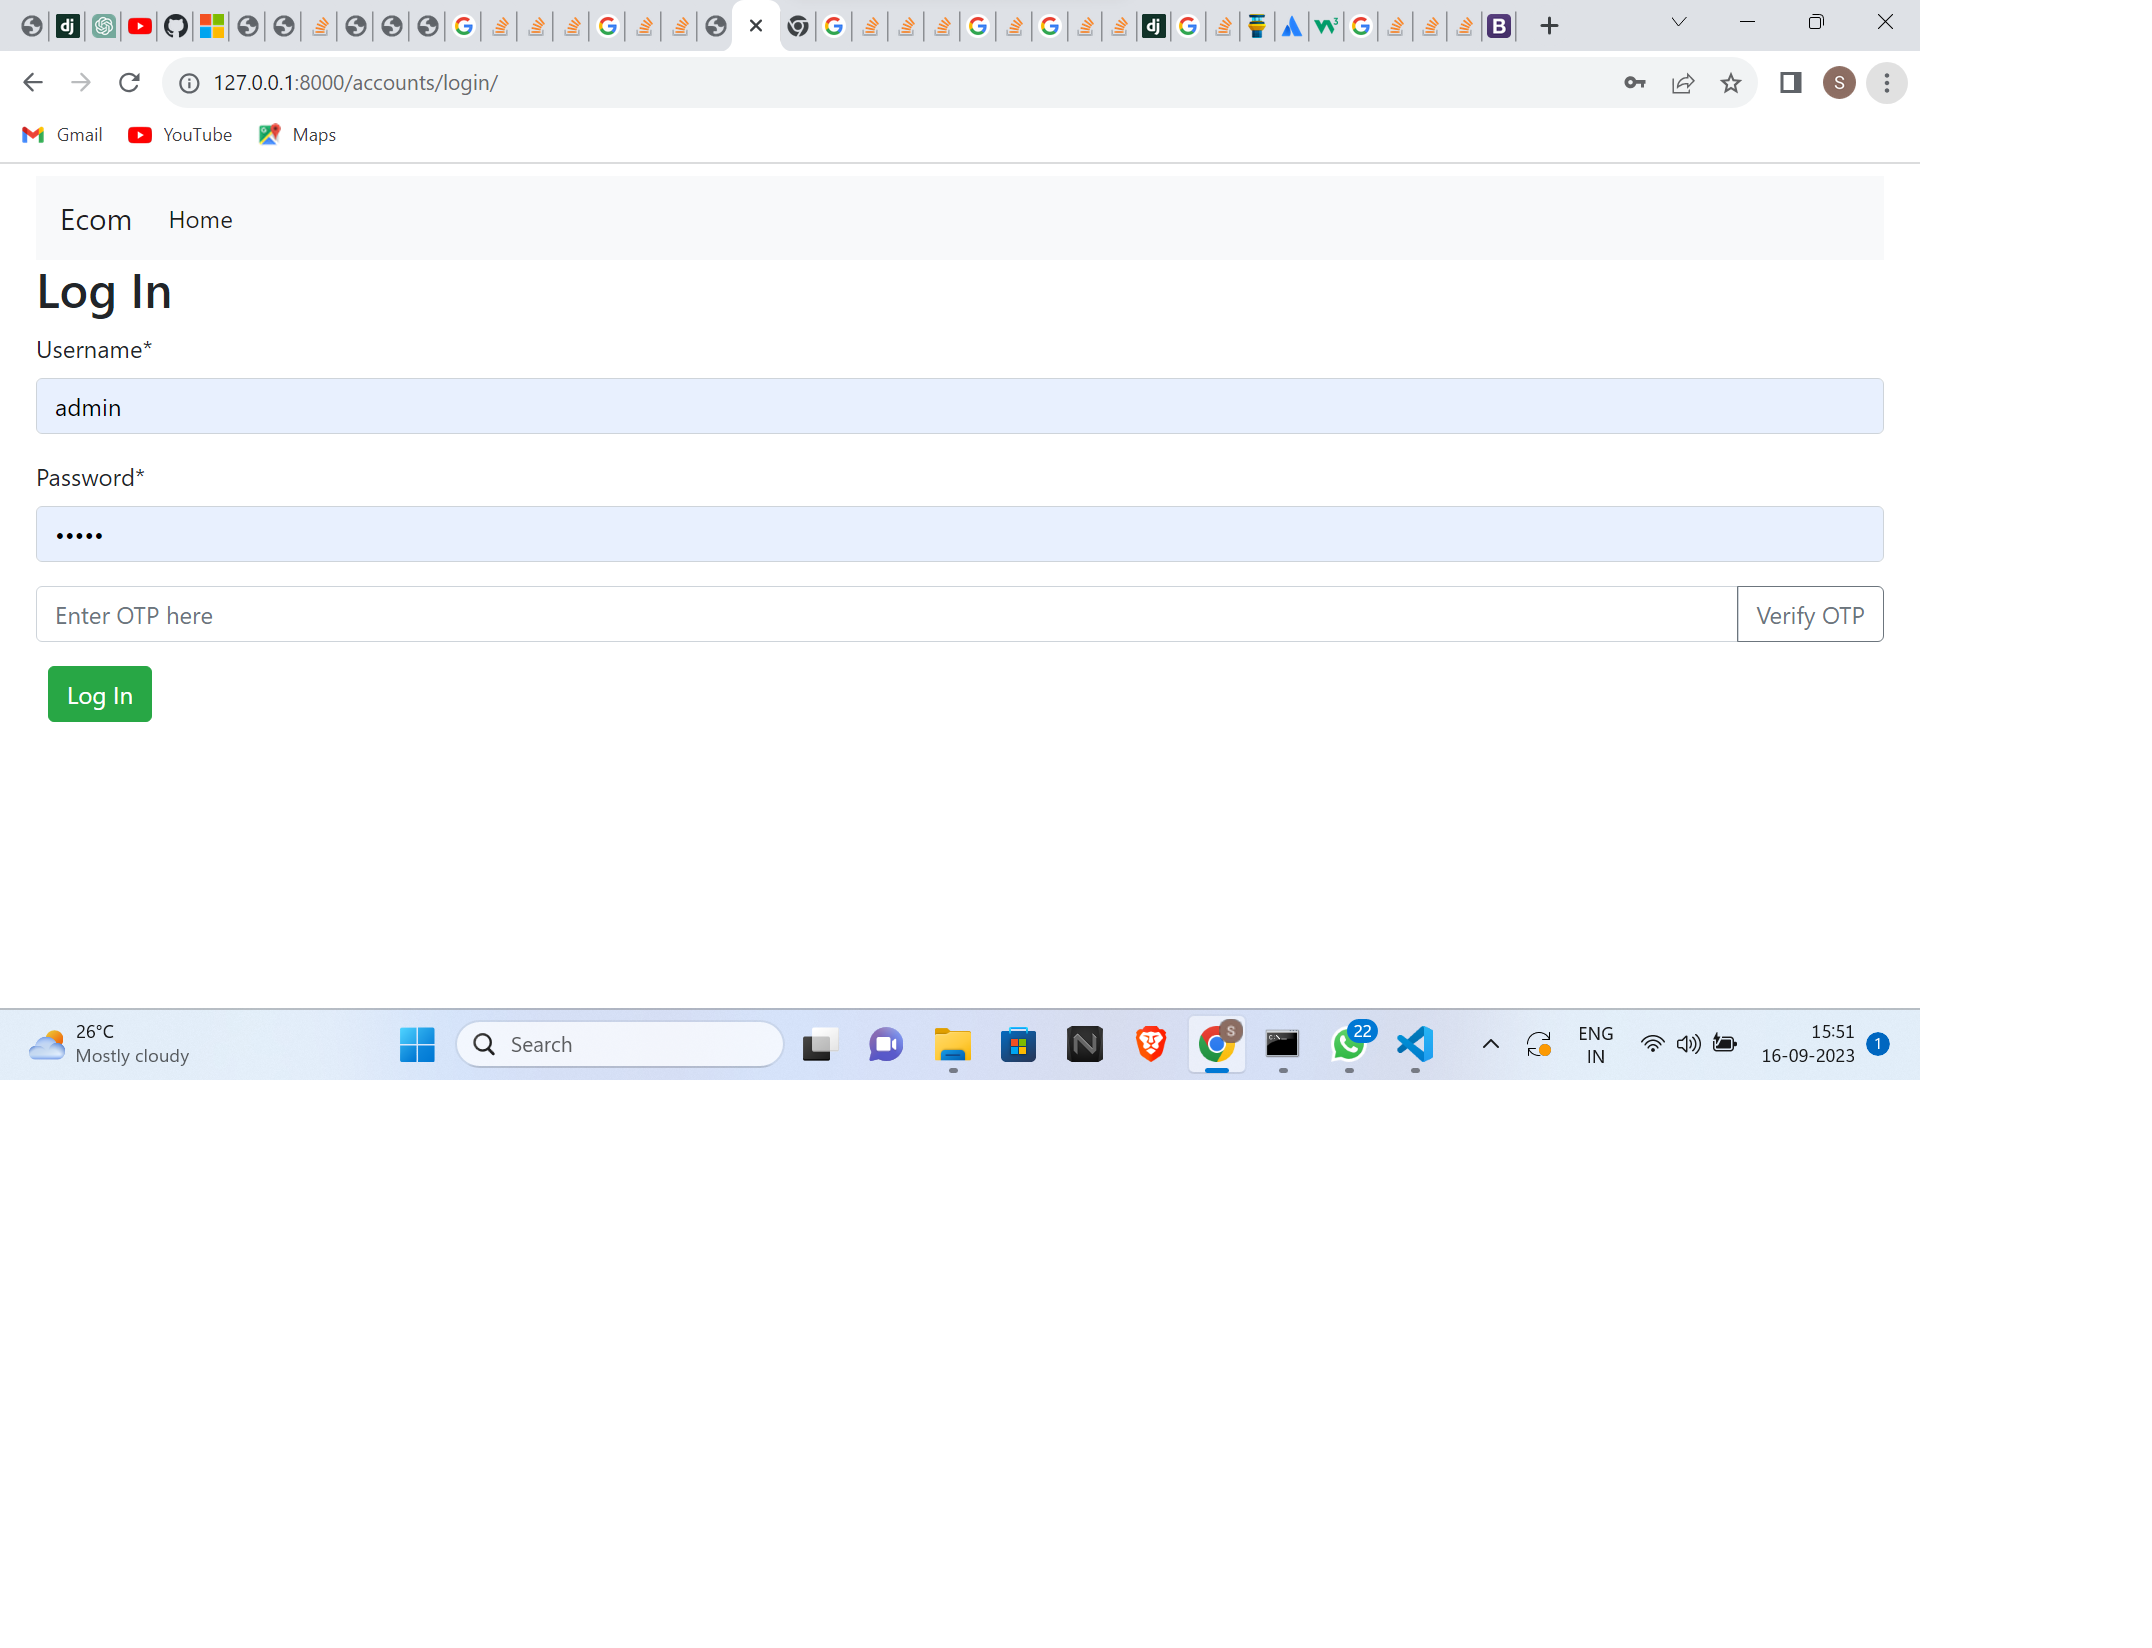
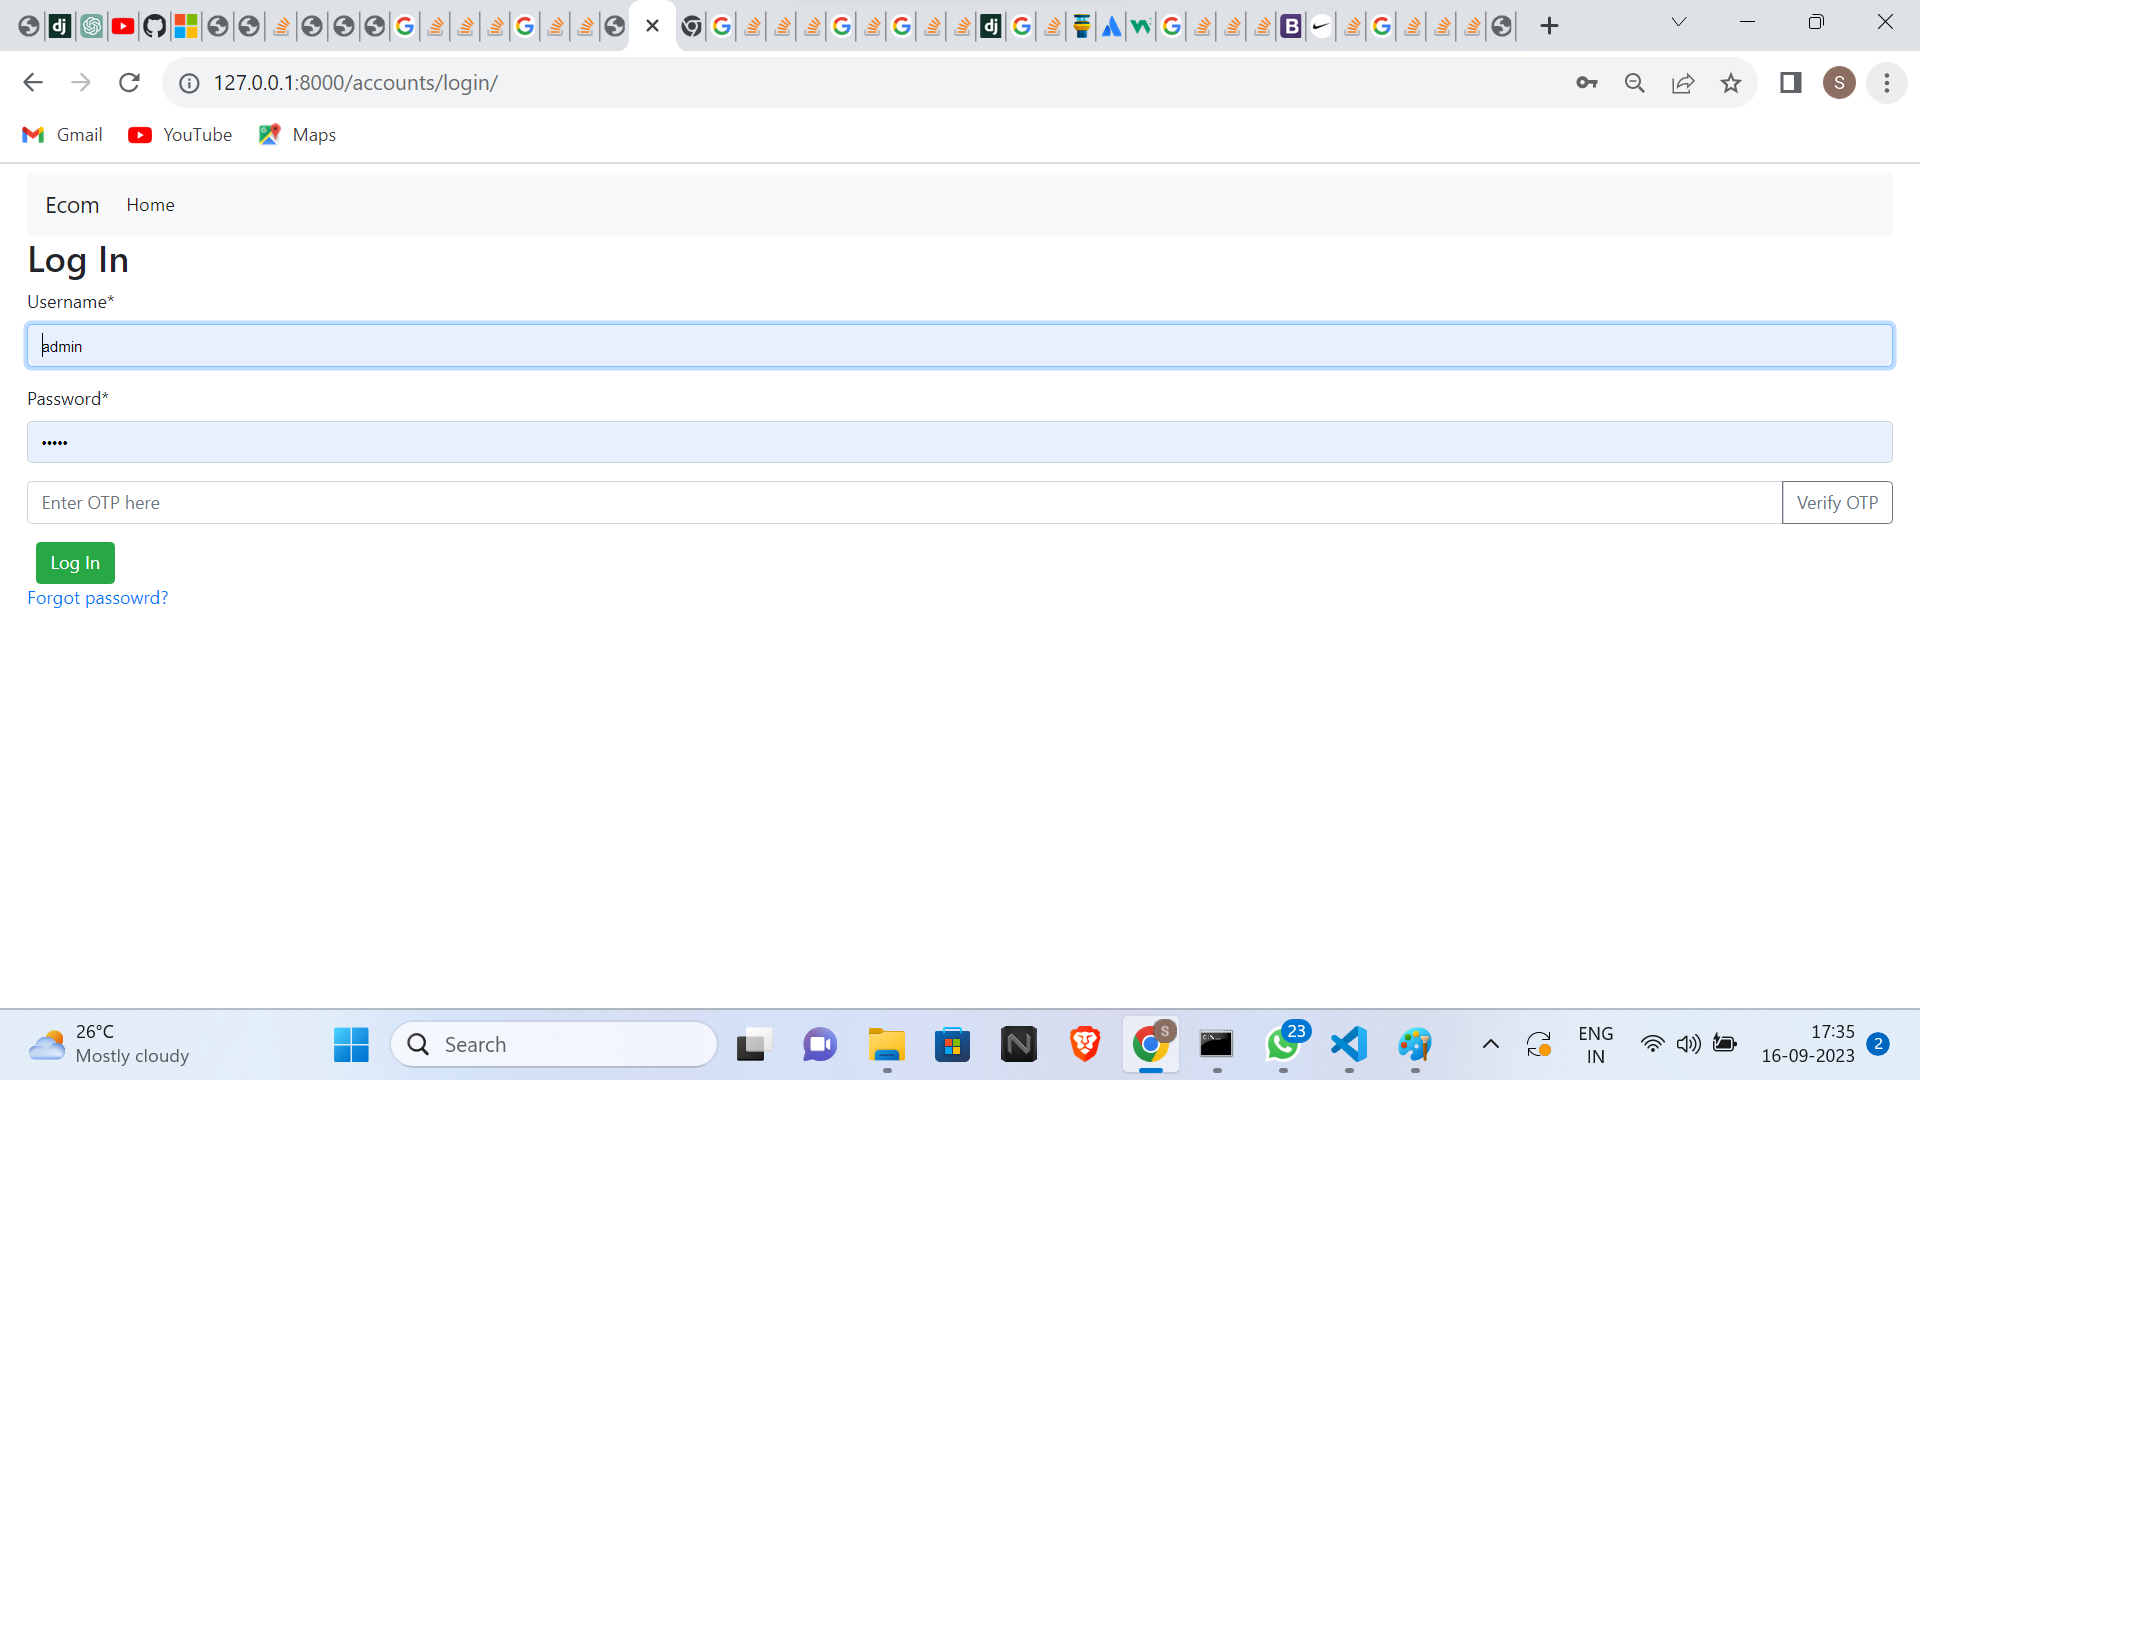
All Screenshots

diff --git a/templates/base.html b/templates/base.html
@@ -39,6 +39,7 @@
                 {% if user.is_authenticated %}
                 <a class="btn btn-outline-success my-2 my-sm-0 bi bi-cart3" href="{% url 'cart:view_cart' %}">Cart</a>
                 <a class="btn btn-outline-success my-2 my-sm-0 bi bi-cart3" href="{% url 'logout' %}">Logout</a>
+                <a class="btn btn-outline-success my-2 my-sm-0 bi bi-cart3" href="{% url 'password_change' %}">Reset Password</a>
                 
                 {% endif%}
               

diff --git a/templates/registration/login.html b/templates/registration/login.html
@@ -13,5 +13,6 @@
         </div>
       </div>
     <button class="btn btn-success ml-2" type="submit">Log In</button>
+    <p><a href="{% url 'password_reset' %}">Forgot passowrd?</a></P>
 </form>
 {% endblock content %}
